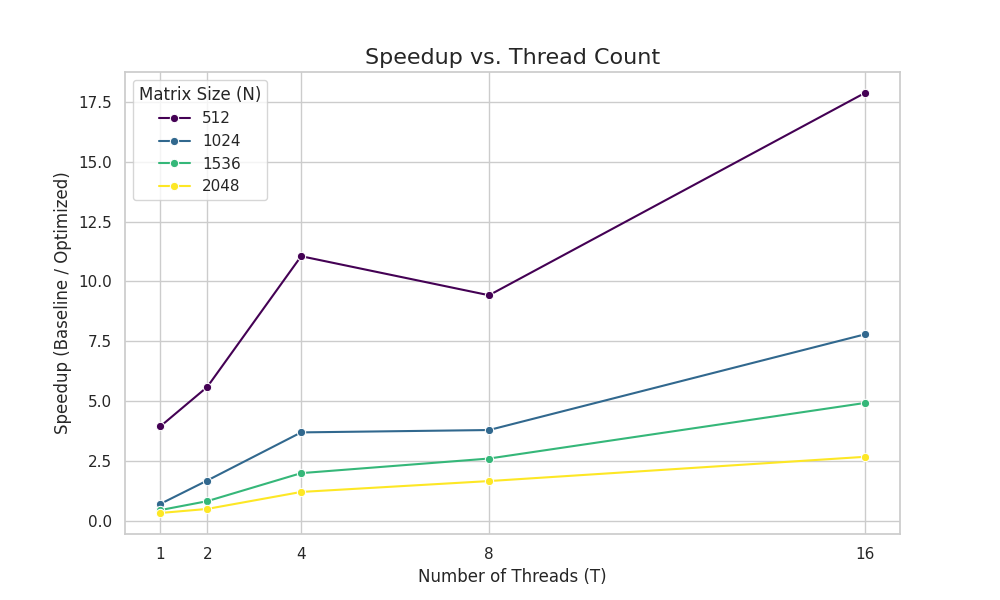
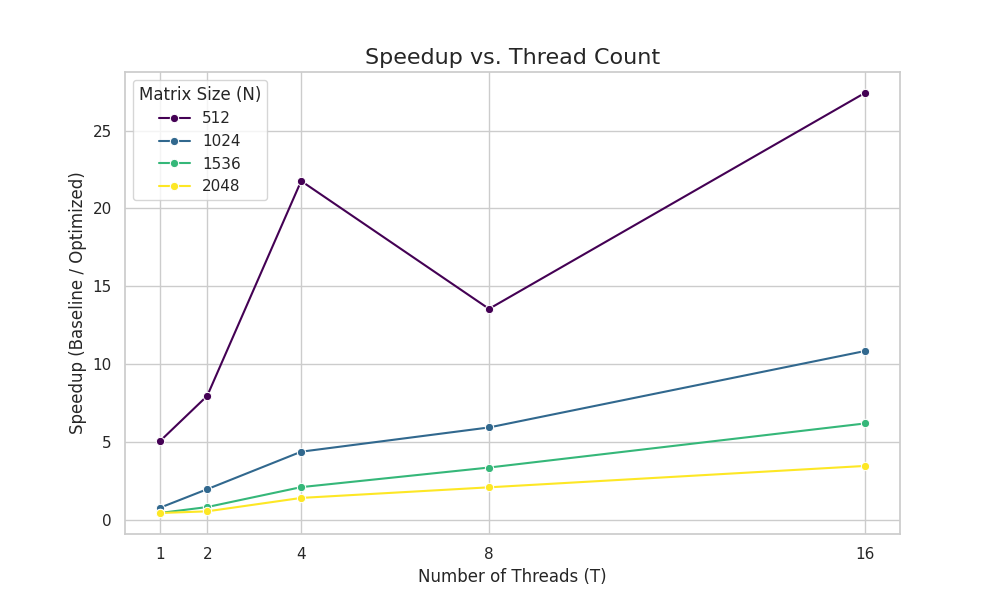
hpc res

diff --git a/Part1/optimized/cpp/gemm_opt.cpp b/Part1/optimized/cpp/gemm_opt.cpp
@@ -1,6 +1,15 @@
-// gemm_opt_fixed.cpp
-// Fixed version: AVX2/AVX-512 intrinsics usage corrected and function-level targets added.
-// CORRECTED: OpenMP pragma moved to the outermost loop to prevent fork/join overhead.
+// gemm_opt_conditional.cpp
+//
+// Optimized GEMM with AVX-512, OpenMP, and *conditional* NUMA-awareness.
+// This code will compile on any system, but will only enable NUMA
+// features if the build script defines the `HAS_NUMA` macro.
+//
+// Build with:
+// g++ -O3 -march=native -fopenmp -std=c++17 gemm_opt_conditional.cpp -o gemm_opt
+//
+// Build *with* NUMA:
+// g++ -O3 -march=native -fopenmp -std=c++17 -DHAS_NUMA gemm_opt_conditional.cpp -o gemm_opt -lnuma
+//
 
 #include <bits/stdc++.h>
 #include <immintrin.h>
@@ -10,7 +19,40 @@
 #include <sys/sysinfo.h>
 #include <sched.h>
 
+// --- Conditionally include NUMA headers ---
+// This is the core fix: these lines are only processed if the
+// compiler is given the -DHAS_NUMA flag.
+#ifdef HAS_NUMA
+#include <numa.h>
+#include <numaif.h>
+#endif
+// --- End conditional include ---
+
 using namespace std;
+
+// ---------- NUMA Check ----------
+static bool g_numa_available = false; // Will remain false if HAS_NUMA is not defined
+
+/**
+ * @brief Checks for NUMA support and prints the number of nodes.
+ * This function is safe to call even without NUMA, as the NUMA-specific
+ * code is guarded by the #ifdef.
+ */
+static void check_numa_support() {
+#ifdef HAS_NUMA
+    // This code block only exists if -DHAS_NUMA was passed
+    if (numa_available() == 0) {
+        g_numa_available = true;
+        cout << "NUMA support detected: " << numa_num_configured_nodes() << " nodes." << endl;
+        cout << "Info: Using parallel first-touch policy for NUMA-aware allocation." << endl;
+    } else {
+        cout << "NUMA support not available (libnuma error)." << endl;
+    }
+#else
+    // This code block exists if -DHAS_NUMA was *not* passed
+    cout << "NUMA support not compiled. (Header 'numa.h' not found during build)." << endl;
+#endif
+}
 
 // ---------- Feature detection ----------
 static inline bool has_avx2() {
@@ -49,16 +91,23 @@ static void* aligned_malloc(size_t bytes, size_t align) {
 }
 static void aligned_free(void* p) { free(p); }
 
-// transpose B -> B_T (block transpose)
+/**
+ * @brief Transposes matrix B into B_T in parallel.
+ * This is crucial for NUMA first-touch on B_T.
+ */
 static void transpose(const double* B, double* B_T, int N) {
-    const int TB = 64;
+    const int TB = 64; // Tiling block size
+    
+    #pragma omp parallel for schedule(static)
     for (int i = 0; i < N; i += TB) {
         int i_max = min(N, i + TB);
         for (int j = 0; j < N; j += TB) {
             int j_max = min(N, j + TB);
-            for (int ii = i; ii < i_max; ++ii)
-                for (int jj = j; jj < j_max; ++jj)
-                    B_T[jj*N + ii] = B[ii*N + jj];
+            for (int ii = i; ii < i_max; ++ii) {
+                for (int jj = j; jj < j_max; ++jj) {
+                    B_T[jj*N + ii] = B[ii*N + jj]; // First touch on B_T[jj*N + ii]
+                }
+            }
         }
     }
 }
@@ -66,6 +115,7 @@ static void transpose(const double* B, double* B_T, int N) {
 // Generic blocked matmul (fallback)
 static void gemm_blocked_generic(const double* A, const double* B_T, double* C, int N,
                                  int MC, int KC, int NC) {
+    #pragma omp parallel for schedule(static)
     for (int i0 = 0; i0 < N; i0 += MC) {
         int ib = min(MC, N - i0);
         for (int k0 = 0; k0 < N; k0 += KC) {
@@ -77,7 +127,7 @@ static void gemm_blocked_generic(const double* A, const double* B_T, double* C, 
                         double a = A[i*N + k];
                         double* crow = &C[i*N + j0];
                         for (int j = 0; j < jb; ++j) {
-                            crow[j] += a * B_T[(j0 + j)*N + k]; // B_T[ j*N + k ]
+                            crow[j] += a * B_T[(j0 + j)*N + k];
                         }
                     }
                 }
@@ -92,7 +142,7 @@ __attribute__((target("avx2,fma")))
 #endif
 static void gemm_blocked_avx2_kernel(const double* A, const double* B_T, double* C, int N,
                               int i_start, int i_end, int k_start, int k_end, int j0, int jb) {
-    const bool use_fma = has_fma(); // runtime check ok, but kernel compiled with fma if attribute used
+    const bool use_fma = has_fma(); 
     const int V = 4; // 4 doubles in 256-bit
     for (int i = i_start; i < i_end; ++i) {
         for (int k = k_start; k < k_end; ++k) {
@@ -100,9 +150,7 @@ static void gemm_blocked_avx2_kernel(const double* A, const double* B_T, double*
             __m256d va = _mm256_set1_pd(a);
             int j = j0;
             for (; j + V - 1 < j0 + jb; j += V) {
-                // use unaligned load/store to be safe
                 __m256d vc = _mm256_loadu_pd(&C[i*N + j]);
-                // B_T layout: B_T[ j*N + k ] == B[k*N + j]
                 __m256d vb = _mm256_loadu_pd(&B_T[j*N + k]);
                 if (use_fma) {
                     vc = _mm256_fmadd_pd(va, vb, vc);
@@ -121,7 +169,6 @@ static void gemm_blocked_avx2_kernel(const double* A, const double* B_T, double*
 static void gemm_blocked_avx2(const double* A, const double* B_T, double* C, int N,
                               int MC, int KC, int NC) {
     
-    // *** FIX: Moved pragma to the outermost loop ***
     #pragma omp parallel for schedule(static)
     for (int i0 = 0; i0 < N; i0 += MC) {
         int ib = min(MC, N - i0);
@@ -129,10 +176,7 @@ static void gemm_blocked_avx2(const double* A, const double* B_T, double* C, int
             int kb = min(KC, N - k0);
             for (int j0 = 0; j0 < N; j0 += NC) {
                 int jb = min(NC, N - j0);
-                
-                // *** FIX: Removed pragma from here ***
                 for (int i = i0; i < i0 + ib; ++i) {
-                    // call kernel per-row-range to keep inner kernel simple
                     gemm_blocked_avx2_kernel(A, B_T, C, N, i, i+1, k0, k0+kb, j0, jb);
                 }
             }
@@ -168,7 +212,6 @@ static void gemm_blocked_avx512_kernel(const double* A, const double* B_T, doubl
 static void gemm_blocked_avx512(const double* A, const double* B_T, double* C, int N,
                                 int MC, int KC, int NC) {
     
-    // *** FIX: Moved pragma to the outermost loop ***
     #pragma omp parallel for schedule(static)
     for (int i0 = 0; i0 < N; i0 += MC) {
         int ib = min(MC, N - i0);
@@ -176,8 +219,6 @@ static void gemm_blocked_avx512(const double* A, const double* B_T, double* C, i
             int kb = min(KC, N - k0);
             for (int j0 = 0; j0 < N; j0 += NC) {
                 int jb = min(NC, N - j0);
-                
-                // *** FIX: Removed pragma from here ***
                 for (int i = i0; i < i0 + ib; ++i) {
                     gemm_blocked_avx512_kernel(A,B_T,C,N,i,i+1,k0,k0+kb,j0,jb);
                 }
@@ -190,16 +231,20 @@ static void gemm_blocked_avx512(const double* A, const double* B_T, double* C, i
 static void gemm_driver(const double* A, const double* B, double* C, int N, int threads) {
     double* B_T = (double*)aligned_malloc(sizeof(double)*(size_t)N*(size_t)N, 64);
     if (!B_T) { cerr << "Allocation failed\n"; exit(1); }
+    
+    omp_set_num_threads(threads);
+    omp_set_dynamic(0);
+    omp_set_schedule(omp_sched_static, 0);
+
+    // Call the now-parallel transpose.
+    // This provides first-touch benefits even on non-NUMA systems
+    // by improving cache locality.
     transpose(B, B_T, N);
 
     int MC = 128;
     int KC = 256;
     int NC = 256;
     MC = min(MC, N); KC = min(KC, N); NC = min(NC, N);
-
-    omp_set_num_threads(threads);
-    omp_set_dynamic(0);
-    omp_set_schedule(omp_sched_static, 0);
 
     const char* force = getenv("KERNEL");
     bool used = false;
@@ -231,6 +276,13 @@ int main(int argc, char** argv) {
     if (N <= 0 || T <= 0) { cerr << "Invalid args\n"; return 1; }
 
     cout << "Threads requested: " << T << "\n";
+    omp_set_num_threads(T);
+    setenv("OMP_PROC_BIND", "TRUE", 1);
+    setenv("OMP_PLACES", "cores", 1);
+
+    // This call is now safe, whether compiled with NUMA or not.
+    check_numa_support();
+
     cout << "Detected: AVX2=" << (has_avx2() ? "yes" : "no")
          << " AVX-512=" << (has_avx512f() ? "yes" : "no")
          << " FMA=" << (has_fma() ? "yes" : "no") << "\n";
@@ -242,12 +294,30 @@ int main(int argc, char** argv) {
     if (!A || !B || !C) { cerr << "OOM\n"; return 1; }
 
     std::mt19937_64 rng(1234567);
-    std::normal_distribution<double> dist(0.0, 1.0);
-    for (size_t i = 0; i < (size_t)N * N; ++i) { A[i] = dist(rng); B[i] = dist(rng); C[i] = 0.0; }
+    vector<std::mt19937_64> thread_rngs;
+    thread_rngs.reserve(T);
+    for (int i = 0; i < T; ++i) {
+        thread_rngs.emplace_back(rng());
+    }
+    
+    cout << "Initializing matrices in parallel (first-touch policy)..." << endl;
+    
+    // This parallel initialization is *always* good, even without NUMA,
+    // as it establishes cache affinity.
+    #pragma omp parallel
+    {
+        int tid = omp_get_thread_num();
+        std::normal_distribution<double> local_dist(0.0, 1.0);
+        std::mt19937_64& local_rng = thread_rngs[tid];
 
-    omp_set_num_threads(T);
-    setenv("OMP_PROC_BIND", "TRUE", 1);
-    setenv("OMP_PLACES", "cores", 1);
+        #pragma omp for schedule(static)
+        for (size_t i = 0; i < (size_t)N * N; ++i) {
+            A[i] = local_dist(local_rng);
+            B[i] = local_dist(local_rng);
+            C[i] = 0.0; // Crucial first-touch on C
+        }
+    }
+    cout << "Initialization complete." << endl;
 
     double t0 = omp_get_wtime();
     gemm_driver(A,B,C,N,T);
